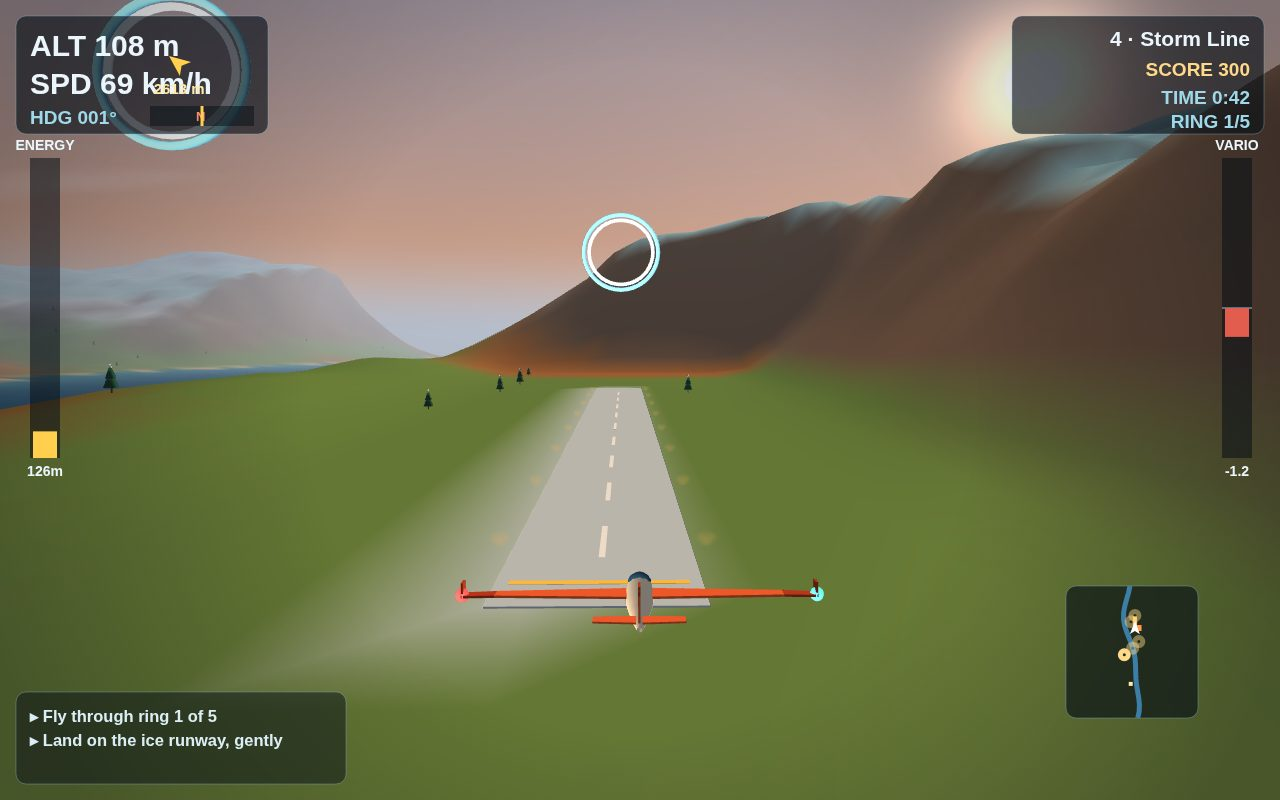
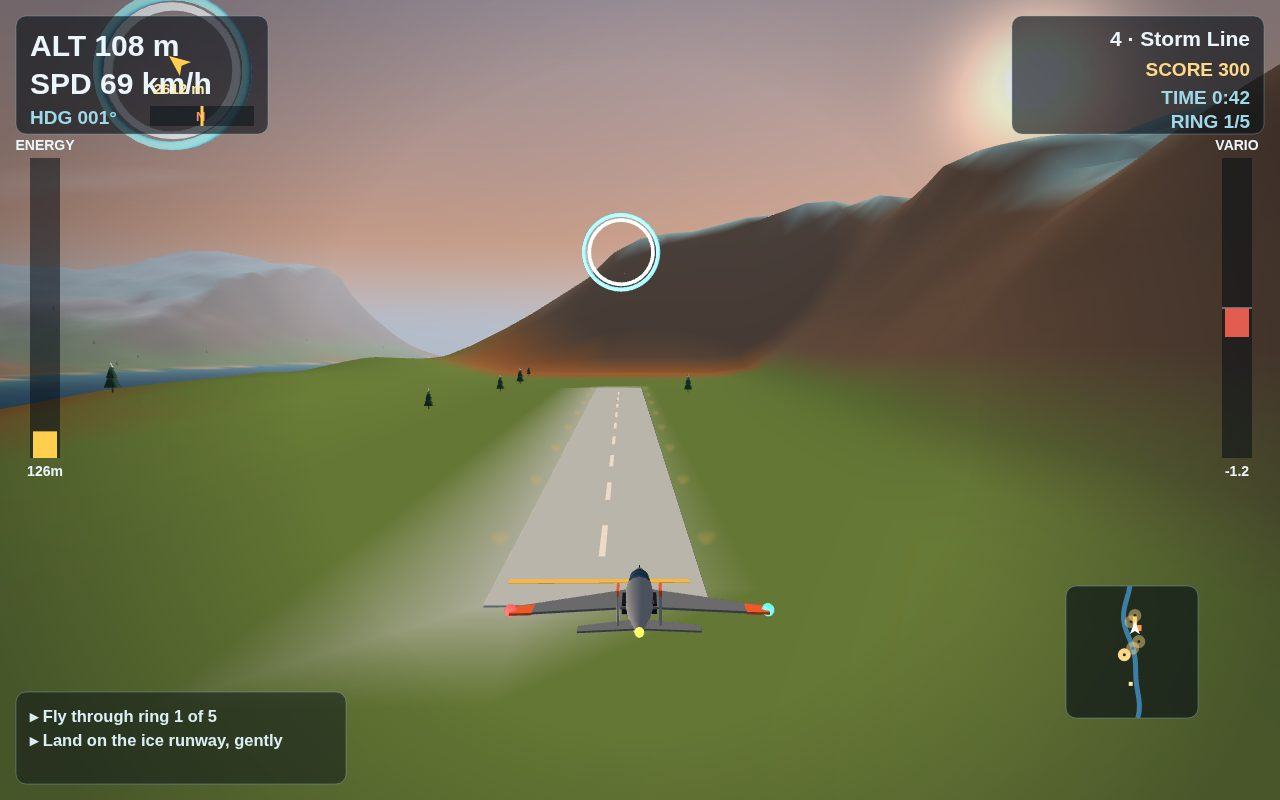
Aircraft reskin: mini jet-fighter silhouette
The glider model becomes a small jet: long pointed nose with pitot
spike, swept steel wings with orange tip panels, twin tail fins, side
intakes, teardrop canopy and a glowing tail cone. Pure looks — the
flight model underneath is unchanged.

Changed region(s): [[0.3438, 0.7188, 0.6562, 0.8125], [0.4688, 0.3438, 0.5, 0.375]]

diff --git a/game/src/renderWorld.js b/game/src/renderWorld.js
@@ -407,43 +407,57 @@ export function createRenderer(glCanvas, fxCanvas) {
   const discMesh = uploadGeometry(buildRingGeometry(0.02, 1, 40));
   const ringBandMesh = uploadGeometry(buildRingGeometry(0.93, 1, 40));
 
-  // The glider as a small scale model: lathe fuselage, tapered wing panels
-  // with red tip bands, glass canopy, T-tail and airbrake panels.
+  // The aircraft as a small scale model — a mini jet-fighter silhouette:
+  // long pointed nose with a pitot spike, swept wings with orange tips,
+  // twin tail fins, side intakes, a teardrop glass canopy and a glowing
+  // tail cone. Pure looks: the physics underneath is still the same
+  // engineless energy model.
   const gliderBody = new MeshBuilder();
   {
-    const cream = [0.98, 0.93, 0.83];
+    const steel = [0.6, 0.64, 0.7];
+    const steelDark = [0.42, 0.46, 0.52];
     const orange = [0.93, 0.38, 0.19];
-    const red = [0.72, 0.23, 0.12];
+    const dark = [0.1, 0.11, 0.13];
     gliderBody.lathe([
-      [-3.6, 0.04], [-3.0, 0.34], [-2.0, 0.55], [-0.8, 0.62], [0.6, 0.56],
-      [1.8, 0.4], [2.8, 0.24], [3.5, 0.1],
-    ], 12, cream, 0.3);
-    gliderBody.wing(0.25, 6.1, 0.14, -0.95, -0.6, 1.2, 0.62, 0.1, orange, 0.14);
-    gliderBody.wing(-0.25, -6.1, 0.14, -0.95, -0.6, 1.2, 0.62, 0.1, orange, 0.14);
-    gliderBody.wing(6.1, 7.5, 0.14, -0.6, -0.42, 0.62, 0.5, 0.1, red, 0.14);
-    gliderBody.wing(-6.1, -7.5, 0.14, -0.6, -0.42, 0.62, 0.5, 0.1, red, 0.14);
-    gliderBody.box(7.45, 0.42, -0.2, 0.09, 0.6, 0.5, red, 0.1);
-    gliderBody.box(-7.45, 0.42, -0.2, 0.09, 0.6, 0.5, red, 0.1);
-    gliderBody.wing(0.12, 1.75, 0.3, 2.95, 3.0, 0.72, 0.55, 0.07, orange, 0.12);
-    gliderBody.wing(-0.12, -1.75, 0.3, 2.95, 3.0, 0.72, 0.55, 0.07, orange, 0.12);
-    gliderBody.box(0, 0.85, 3.15, 0.09, 1.25, 0.62, orange, 0.12);
-    gliderBody.box(0, 1.42, 3.15, 0.1, 0.35, 0.62, red, 0.12);
+      [-4.6, 0.02], [-4.2, 0.16], [-3.4, 0.34], [-2.4, 0.5], [-1.4, 0.58],
+      [-0.2, 0.6], [1.0, 0.55], [2.2, 0.44], [3.2, 0.3], [3.7, 0.17],
+    ], 12, steel, 0.35);
+    gliderBody.box(0, 0, -4.85, 0.045, 0.045, 0.5, dark, 0.2); // pitot spike
+    // Swept main wings, steel with orange tip panels.
+    gliderBody.wing(0.3, 5.2, -0.05, -1.5, 0.85, 2.4, 0.8, 0.09, steelDark, 0.16);
+    gliderBody.wing(-0.3, -5.2, -0.05, -1.5, 0.85, 2.4, 0.8, 0.09, steelDark, 0.16);
+    gliderBody.wing(4.3, 5.2, -0.05, 0.55, 0.85, 1.05, 0.8, 0.095, orange, 0.16);
+    gliderBody.wing(-4.3, -5.2, -0.05, 0.55, 0.85, 1.05, 0.8, 0.095, orange, 0.16);
+    // Side intakes.
+    gliderBody.box(0.55, -0.12, 0.1, 0.34, 0.42, 1.5, dark, 0.1);
+    gliderBody.box(-0.55, -0.12, 0.1, 0.34, 0.42, 1.5, dark, 0.1);
+    // Swept tailplanes and twin fins with orange tips.
+    gliderBody.wing(0.15, 2.3, 0.05, 2.6, 3.3, 1.0, 0.55, 0.07, steelDark, 0.14);
+    gliderBody.wing(-0.15, -2.3, 0.05, 2.6, 3.3, 1.0, 0.55, 0.07, steelDark, 0.14);
+    gliderBody.box(0.8, 0.75, 3.1, 0.09, 1.15, 0.95, steel, 0.14);
+    gliderBody.box(-0.8, 0.75, 3.1, 0.09, 1.15, 0.95, steel, 0.14);
+    gliderBody.box(0.8, 1.38, 3.1, 0.1, 0.24, 0.95, orange, 0.14);
+    gliderBody.box(-0.8, 1.38, 3.1, 0.1, 0.24, 0.95, orange, 0.14);
   }
   const gliderMesh = uploadGeometry(gliderBody.build());
   const canopy = new MeshBuilder();
-  canopy.sphere(0, 0.3, -1.45, 0.52, [0.16, 0.32, 0.45], 1.0, 0.82);
+  canopy.sphere(0, 0.32, -2.15, 0.42, [0.13, 0.27, 0.4], 1.0, 0.78);
+  canopy.sphere(0, 0.3, -1.55, 0.47, [0.13, 0.27, 0.4], 1.0, 0.78);
   const canopyMesh = uploadGeometry(canopy.build());
   const brakes = new MeshBuilder();
-  brakes.box(3.4, 0.32, -0.35, 1.5, 0.3, 0.7, [0.55, 0.19, 0.11], 0.1);
-  brakes.box(-3.4, 0.32, -0.35, 1.5, 0.3, 0.7, [0.55, 0.19, 0.11], 0.1);
+  brakes.box(2.6, 0.12, 0.2, 1.3, 0.26, 0.6, [0.55, 0.19, 0.11], 0.1);
+  brakes.box(-2.6, 0.12, 0.2, 1.3, 0.26, 0.6, [0.55, 0.19, 0.11], 0.1);
   const brakesMesh = uploadGeometry(brakes.build());
   const navLights = new MeshBuilder();
-  navLights.sphere(-7.5, 0.14, -0.2, 0.3, [1, 0.2, 0.2], 0);
-  navLights.sphere(7.5, 0.14, -0.2, 0.3, [0.2, 1, 0.45], 0);
+  navLights.sphere(-5.2, -0.05, 1.2, 0.26, [1, 0.2, 0.2], 0);
+  navLights.sphere(5.2, -0.05, 1.2, 0.26, [0.2, 1, 0.45], 0);
   const navLightsMesh = uploadGeometry(navLights.build());
   const strobe = new MeshBuilder();
-  strobe.sphere(0, 0.1, 3.55, 0.26, [1, 1, 1], 0);
+  strobe.sphere(0, 0.2, 3.7, 0.24, [1, 1, 1], 0);
   const strobeMesh = uploadGeometry(strobe.build());
+  const burner = new MeshBuilder();
+  burner.sphere(0, 0, 3.74, 0.19, [1, 0.55, 0.15], 0);
+  const burnerMesh = uploadGeometry(burner.build());
 
   // ---------- Sprites: clouds and runway edge lights ----------
   const puffTexture = (() => {
@@ -784,6 +798,7 @@ export function createRenderer(glCanvas, fxCanvas) {
       drawMesh(gliderMesh, mvp, gm);
       drawMesh(canopyMesh, mvp, gm);
       if (glider.airbrake) drawMesh(brakesMesh, mvp, gm);
+      drawMesh(burnerMesh, mvp, gm, { emissive: 1.8 });
       drawMesh(navLightsMesh, mvp, gm, { emissive: 1.3 });
       if (Math.sin(time * 2.4) > 0.72) drawMesh(strobeMesh, mvp, gm, { emissive: 1.6 });
     }
